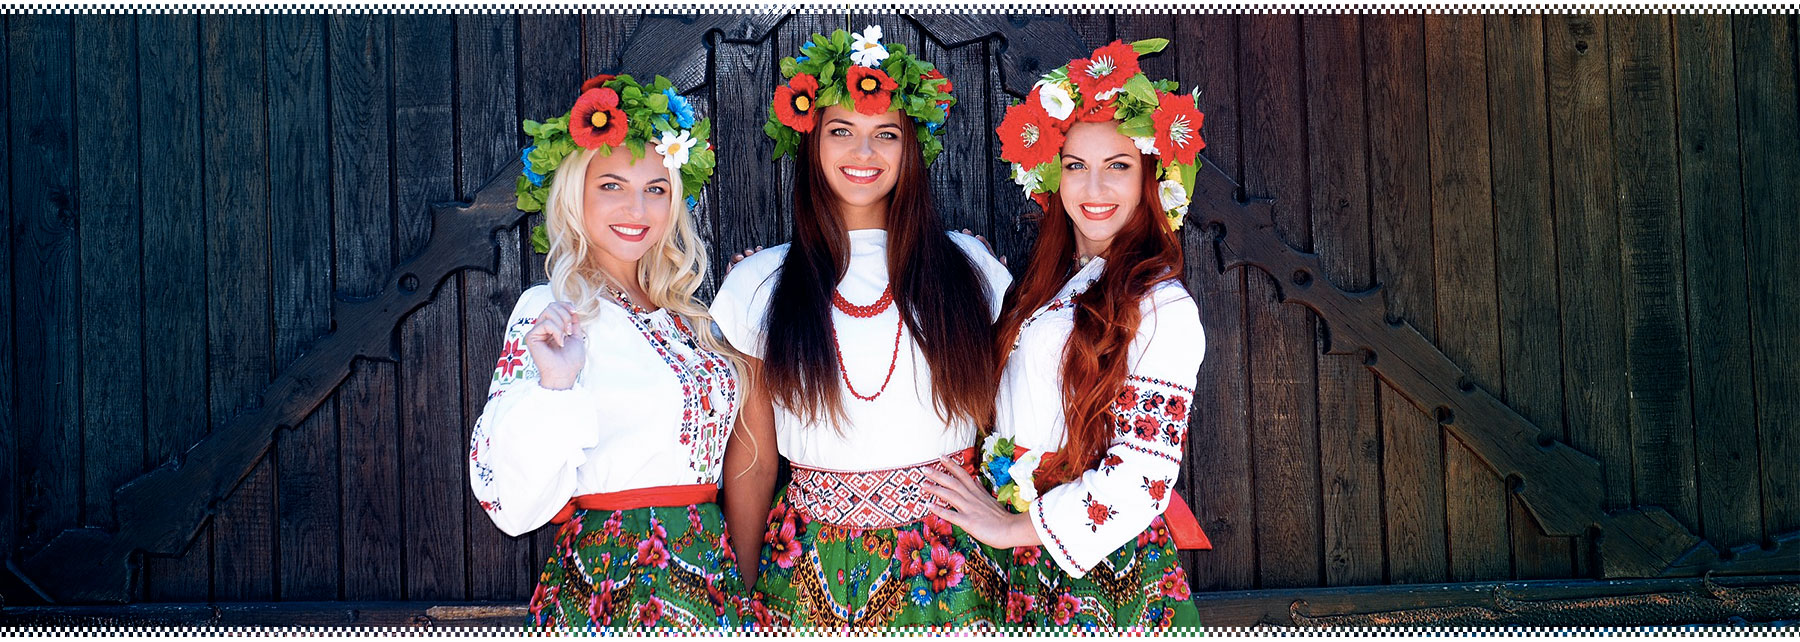
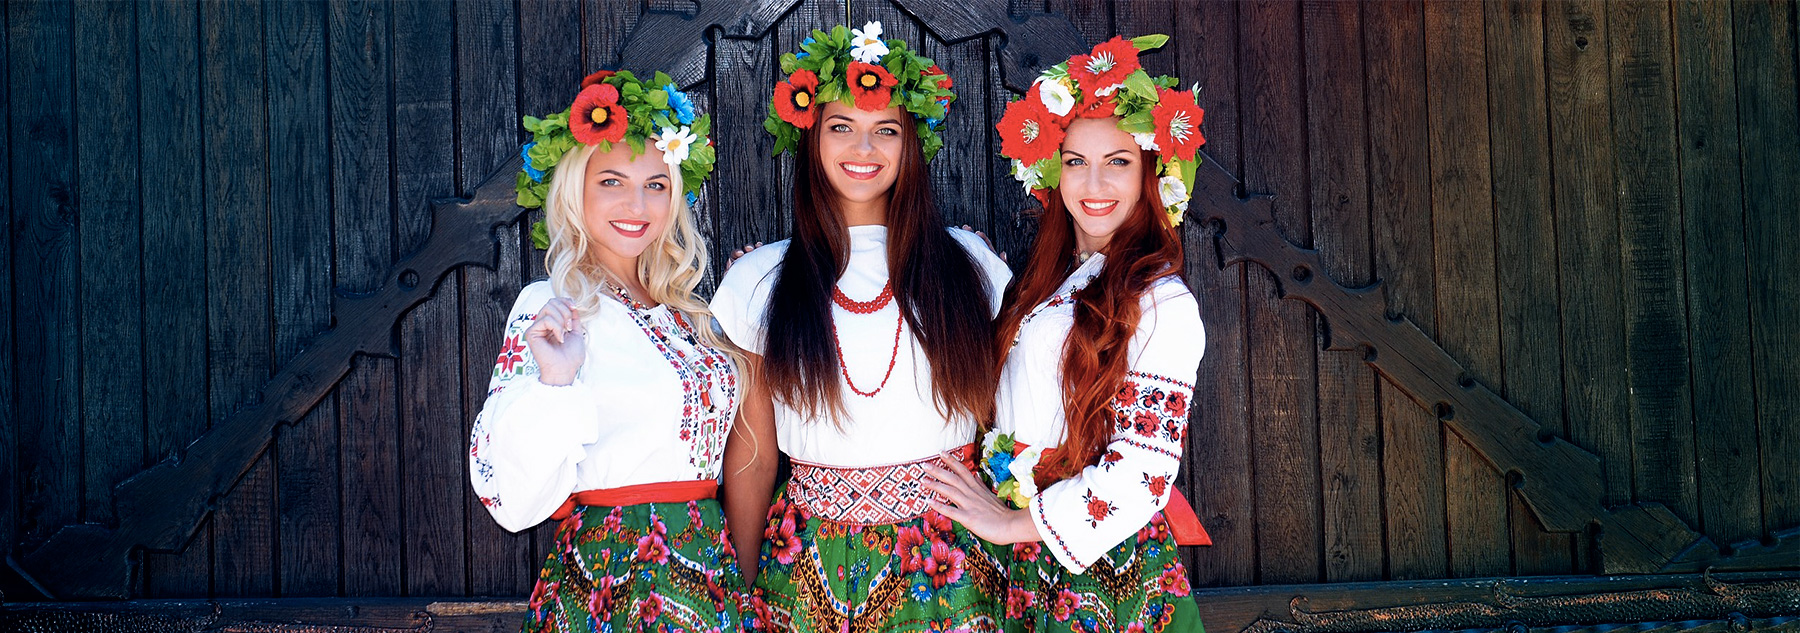
Main galleries fixed

diff --git a/content/user_interface/css/main.css b/content/user_interface/css/main.css
@@ -2,11 +2,31 @@
 	margin: 0 auto;
 	width: 1170px;
 }
+
+/*Jquery gallery slider*/
 .gallery-holder{
 	max-width: 1800px;
 	margin: 0 auto;
 	position: relative;
-	box-shadow: 0 0 12px rgba(0,0,0,0.5);
+	box-shadow: 0 0 15px rgba(0,0,0,0.2);
+	border-top: 5px solid #fff;
+	border-bottom: 5px solid #fff;
+}
+.gallery-holder:before, 
+.gallery-holder:after {
+	content: "";
+	display: block;
+	width: 100%;
+	height: 10px;
+	position: absolute;
+	top: 0;
+	left: 0;
+	background: url("../img/main/gallery-vector.png") repeat-x 0 0;
+	z-index: 100;
+}
+.gallery-holder:after {
+	top: auto;
+	bottom: 0;
 }
 .list {
 	position: relative;
@@ -15,6 +35,7 @@
 	margin: 0 auto;
 	overflow: hidden;
 	width: 100%;
+	
 }
 .list>li {
 	position: absolute;
@@ -141,6 +162,8 @@
 	padding: 34px 0 25px 0;
 	display: block;
 }
+/*Jquery gallery slider END*/
+
 #main {
 	width: 100%;
 }
@@ -374,6 +397,7 @@
 	margin: 0 0 47px 0;
 }
 
+/*Jquery gallery bottom slider*/
 .gallery-box-second {
 	width: 410px;
 	display: block;
@@ -454,6 +478,8 @@
 	background: #fff;
 	color: #000;
 }
+/*Jquery gallery bottom slider END*/
+
 .subscribe-holder {
 	width: 100%;
 }

diff --git a/application/views/user_interface/main_page.php b/application/views/user_interface/main_page.php
@@ -1,8 +1,9 @@
-<!-- Main Starts Here -->
+Main Starts Here -->
 <div class="main-h1">
     <h1>Life only starts when love comes, start your life with us</h1>
 </div>
 
+<!-- Gallery main-top -->
 <div class="gallery-holder">
     <ul id="gallery" class="list">
         <li>
@@ -28,6 +29,8 @@
         </li>
     </ul>
 </div>
+<!-- Gallery main-top -->
+
 <main id="main">
     <div class="content-top">
         <a name="services"></a>
@@ -132,6 +135,8 @@
             </div>
     </div>
 </main>
+
+<!-- Gallery main-bottom -->
 <div class="gallery-holder">
     <ul id="gallery-2" class="list">
         <li>
@@ -175,6 +180,8 @@
         </li>
     </ul>
 </div>
+<!-- Gallery main-bottom END-->
+
 <div class="subscribe-holder">
     <div class="subscribe">
         <span>Start today!</span>
@@ -278,4 +285,4 @@
 </div>
 
 
-<!-- Main Ends Here -->
+<!-- Main Ends Here
